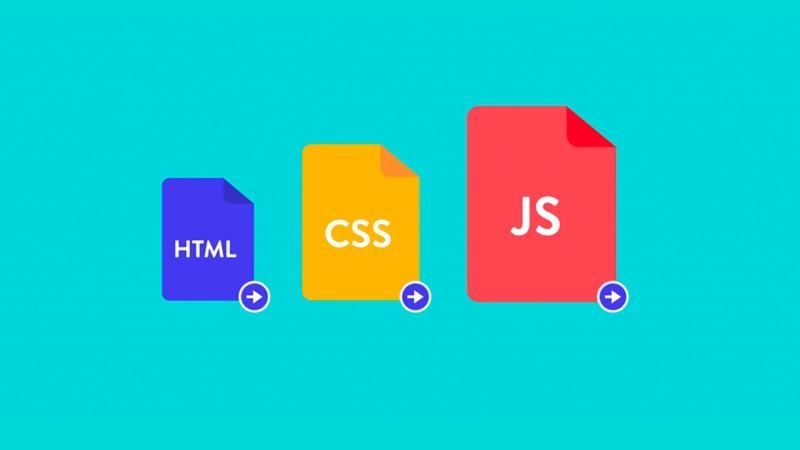
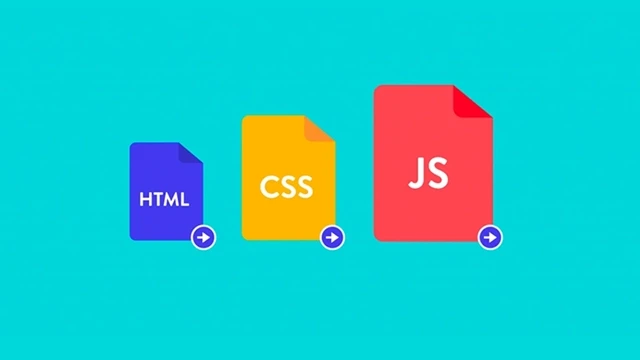
chore: 이미지 최적화 (90% 손실 압축)

diff --git a/src/components/common/MainImage.tsx b/src/components/common/MainImage.tsx
@@ -1,13 +1,13 @@
 import React from 'react';
 import { twMerge } from 'tailwind-merge';
 
-type BackgroundImageProps = React.ComponentPropsWithoutRef<'img'>;
+type MainImageProps = React.ComponentPropsWithoutRef<'img'>;
 
-const BackgroundImage = ({ className, ...rest }: BackgroundImageProps) => {
+const MainImage = ({ className, ...rest }: MainImageProps) => {
   return (
     <img
       className={twMerge('h-full w-full object-cover', className)}
-      src="/images/main@3140.webp"
+      src="/images/main@1280.webp"
       srcSet="/images/main@1280.webp 1280w, /images/main@1920.webp 1920w, /images/main@3140.webp 3140w"
       alt="배경"
       {...rest}
@@ -15,4 +15,4 @@ const BackgroundImage = ({ className, ...rest }: BackgroundImageProps) => {
   );
 };
 
-export default BackgroundImage;
+export default MainImage;
